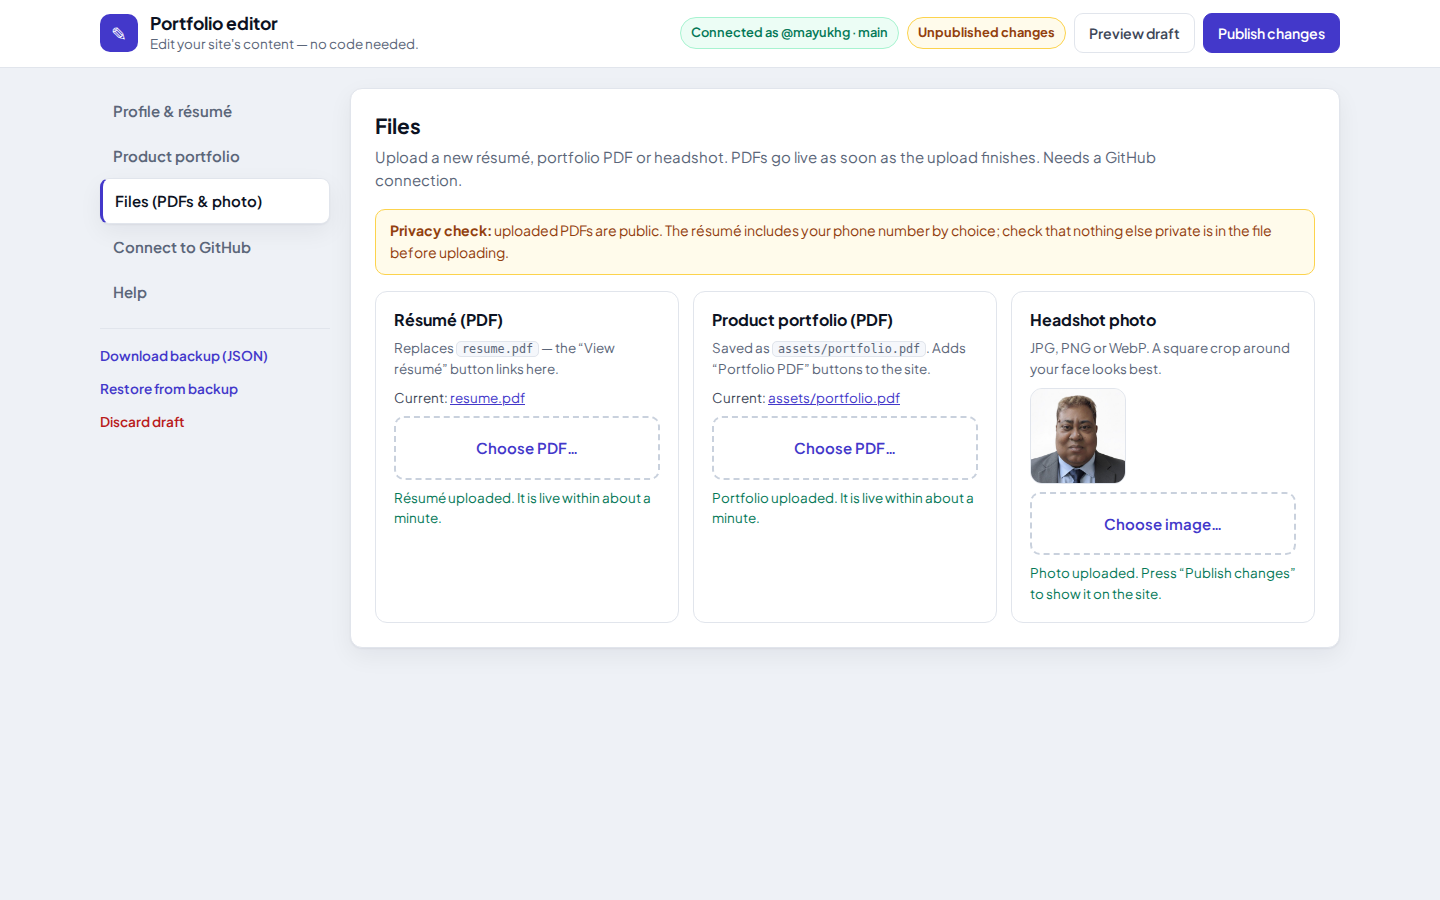
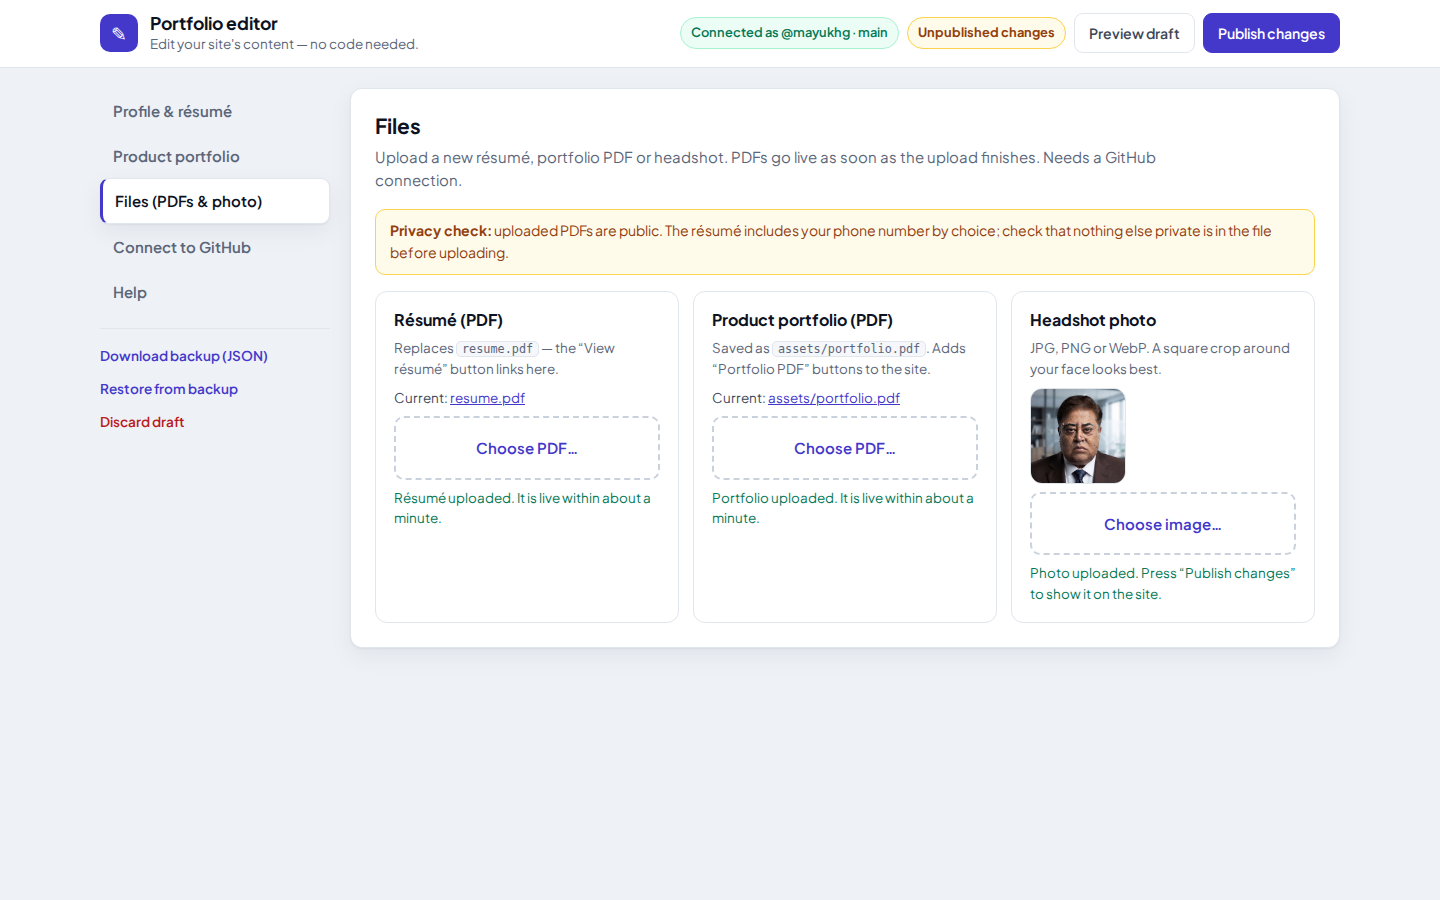
New headshot on the site and the social share card
- assets/mayukh.jpg: new photo, square-cropped to keep the full head
  and tie knot, 640×640 (same path, so the hero, JSON-LD and touch icon
  all pick it up).
- assets/og-card.jpg: the same photo placed in the card's rounded
  frame, so link previews match the site.

Claude-Session: https://claude.ai/code/session_01CK7TiHoTae7Huhu9QXRh1t

Changed region(s): [[0.7188, 0.4044, 0.7812, 0.56]]

diff --git a/qa/VALIDATION_REPORT.md b/qa/VALIDATION_REPORT.md
@@ -1,6 +1,6 @@
 # Validation Report — Portfolio Site & Editor
 
-**Run:** 2026-09-28 10:52 UTC · **Mode:** full · **Browser:** Chromium (Playwright 1.56.1) · **Accessibility engine:** axe-core 4.11.0
+**Run:** 2026-09-28 11:05 UTC · **Mode:** full · **Browser:** Chromium (Playwright 1.56.1) · **Accessibility engine:** axe-core 4.11.0
 
 ## Summary
 
@@ -44,7 +44,7 @@ The suite discovers features from the code on every run (`qa/lib/discover.mjs`) 
 | A1 | All required files exist | ✅ Pass | 0.0s | 16 files checked |
 | A2 | Content JSON is valid and internally consistent | ✅ Pass | 0.0s | 7 products, 3 arenas, 7 roles |
 | A3 | Phone number is not published in any site text file | ✅ Pass | 0.0s | 12 text files scanned; résumé PDF intentionally includes the phone number |
-| A4 | Every local URL referenced by pages and content resolves (HTTP 200) | ✅ Pass | 0.0s | 10 local references checked |
+| A4 | Every local URL referenced by pages and content resolves (HTTP 200) | ✅ Pass | 0.1s | 10 local references checked |
 | A5 | SEO & social metadata (title, description, canonical, Open Graph, JSON-LD) | ✅ Pass | 0.0s |  |
 | A6 | Crawl rules: robots.txt blocks /admin, admin + 404 are noindex, sitemap valid | ✅ Pass | 0.0s |  |
 
@@ -52,58 +52,58 @@ The suite discovers features from the code on every run (`qa/lib/discover.mjs`) 
 
 | ID | Test case | Result | Time | Details / evidence |
 |---|---|---|---|---|
-| B1 | Home page loads with zero console errors, page errors or failed requests | ✅ Pass | 2.2s | DOMContentLoaded 30 ms (local server); web fonts loaded<br>[01-desktop-1440-full-page.jpg](screenshots/01-desktop-1440-full-page.jpg) |
+| B1 | Home page loads with zero console errors, page errors or failed requests | ✅ Pass | 4.0s | DOMContentLoaded 107 ms (local server); web fonts loaded<br>[01-desktop-1440-full-page.jpg](screenshots/01-desktop-1440-full-page.jpg) |
 | B2 | Hero renders name, title, badge, intro (with bold), CTAs, photo and 4 stats | ✅ Pass | 1.0s | [02-hero-desktop.png](screenshots/02-hero-desktop.png) |
 | B3 | Every section renders the expected number of items from content JSON | ✅ Pass | 0.7s | facts=8, steps=6, principles=3, products=7, glance=7, pillars=3, metrics=4, roles=7, legend=3, snapshot=3, snapItems=11, skills=6, edu=3, contact=5 |
 | B4 | Content fidelity: every product, role, skill and education entry appears on the page | ✅ Pass | 0.7s |  |
-| B5 | Section headings and sub-headings render exactly as written in the content files | ✅ Pass | 0.8s | [03-products-heading.png](screenshots/03-products-heading.png) |
+| B5 | Section headings and sub-headings render exactly as written in the content files | ✅ Pass | 0.9s | [03-products-heading.png](screenshots/03-products-heading.png) |
 
 ### C. Interactions
 
 | ID | Test case | Result | Time | Details / evidence |
 |---|---|---|---|---|
 | C1 | Product card accordion expands and collapses (aria-expanded + height) | ✅ Pass | 2.0s | [04-product-card-expanded.png](screenshots/04-product-card-expanded.png) |
-| C9 | Product card affordance: “Explore case study” button, content preview, whole-card click, animations, one-time hint | ✅ Pass | 9.5s | [05-product-card-closed-hover.png](screenshots/05-product-card-closed-hover.png)<br>[06-product-card-open.png](screenshots/06-product-card-open.png) |
-| C2 | Arena filter chips show the right products and counts | ✅ Pass | 1.3s | [07-filter-agentic.png](screenshots/07-filter-agentic.png) |
-| C3 | Experience timeline: every role visible at once; each role expands/collapses its achievements | ✅ Pass | 2.5s | 7 roles on the timeline<br>[08-experience-timeline.png](screenshots/08-experience-timeline.png) |
-| C4 | Colour coding: career tracks, product arenas, snapshot groups and documents each use their own labelled colour | ✅ Pass | 1.2s | [09-colour-coded-summary-cards.png](screenshots/09-colour-coded-summary-cards.png) |
+| C9 | Product card affordance: “Explore case study” button, content preview, whole-card click, animations, one-time hint | ✅ Pass | 13.5s | [05-product-card-closed-hover.png](screenshots/05-product-card-closed-hover.png)<br>[06-product-card-open.png](screenshots/06-product-card-open.png) |
+| C2 | Arena filter chips show the right products and counts | ✅ Pass | 1.4s | [07-filter-agentic.png](screenshots/07-filter-agentic.png) |
+| C3 | Experience timeline: every role visible at once; each role expands/collapses its achievements | ✅ Pass | 2.6s | 7 roles on the timeline<br>[08-experience-timeline.png](screenshots/08-experience-timeline.png) |
+| C4 | Colour coding: career tracks, product arenas, snapshot groups and documents each use their own labelled colour | ✅ Pass | 1.1s | [09-colour-coded-summary-cards.png](screenshots/09-colour-coded-summary-cards.png) |
 | C5 | Deep links open products (URL hash, filtered state, experience “related product” links) | ✅ Pass | 2.6s |  |
-| C8 | Summary (“at a glance”) cards: one per product, in order, each opens its product case | ✅ Pass | 9.3s | [10-summary-cards-desktop.png](screenshots/10-summary-cards-desktop.png) |
-| C6 | Nav links scroll to sections; active link and scrolled state update | ✅ Pass | 6.4s |  |
-| C10 | Recruiter essentials: résumé always one click away (sticky nav, all widths); 60-second snapshot; skills “+N more” | ✅ Pass | 4.1s | [11-mobile-nav-resume.png](screenshots/11-mobile-nav-resume.png)<br>[12-snapshot-panel.png](screenshots/12-snapshot-panel.png) |
-| C11 | Print / Save as PDF: navigation and buttons hidden, every case study, role and skill included | ✅ Pass | 1.1s | Print-to-PDF: 1033 KB |
-| C7 | Links: external open safely in new tab, mailto correct, résumé PDF served | ✅ Pass | 0.8s | 11 external links, 7 product GitHub links |
+| C8 | Summary (“at a glance”) cards: one per product, in order, each opens its product case | ✅ Pass | 7.2s | [10-summary-cards-desktop.png](screenshots/10-summary-cards-desktop.png) |
+| C6 | Nav links scroll to sections; active link and scrolled state update | ✅ Pass | 6.5s |  |
+| C10 | Recruiter essentials: résumé always one click away (sticky nav, all widths); 60-second snapshot; skills “+N more” | ✅ Pass | 4.0s | [11-mobile-nav-resume.png](screenshots/11-mobile-nav-resume.png)<br>[12-snapshot-panel.png](screenshots/12-snapshot-panel.png) |
+| C11 | Print / Save as PDF: navigation and buttons hidden, every case study, role and skill included | ✅ Pass | 1.0s | Print-to-PDF: 1033 KB |
+| C7 | Links: external open safely in new tab, mailto correct, résumé PDF served | ✅ Pass | 0.7s | 11 external links, 7 product GitHub links |
 
 ### D. Responsive
 
 | ID | Test case | Result | Time | Details / evidence |
 |---|---|---|---|---|
-| D-1440 | No horizontal overflow and correct layout at 1440px (desktop) | ✅ Pass | 2.6s | [13-desktop-1440-full-page.jpg](screenshots/13-desktop-1440-full-page.jpg) |
-| D-1024 | No horizontal overflow and correct layout at 1024px (laptop) | ✅ Pass | 2.1s | [14-laptop-1024-full-page.jpg](screenshots/14-laptop-1024-full-page.jpg) |
+| D-1440 | No horizontal overflow and correct layout at 1440px (desktop) | ✅ Pass | 3.6s | [13-desktop-1440-full-page.jpg](screenshots/13-desktop-1440-full-page.jpg) |
+| D-1024 | No horizontal overflow and correct layout at 1024px (laptop) | ✅ Pass | 2.4s | [14-laptop-1024-full-page.jpg](screenshots/14-laptop-1024-full-page.jpg) |
 | D-768 | No horizontal overflow and correct layout at 768px (tablet) | ✅ Pass | 1.9s | [15-tablet-768-full-page.jpg](screenshots/15-tablet-768-full-page.jpg) |
-| D-390 | No horizontal overflow and correct layout at 390px (mobile) | ✅ Pass | 1.9s | [16-mobile-390-full-page.jpg](screenshots/16-mobile-390-full-page.jpg) |
-| D-320 | No horizontal overflow and correct layout at 320px (small-mobile) | ✅ Pass | 1.8s | [17-small-mobile-320-full-page.jpg](screenshots/17-small-mobile-320-full-page.jpg) |
+| D-390 | No horizontal overflow and correct layout at 390px (mobile) | ✅ Pass | 2.0s | [16-mobile-390-full-page.jpg](screenshots/16-mobile-390-full-page.jpg) |
+| D-320 | No horizontal overflow and correct layout at 320px (small-mobile) | ✅ Pass | 1.6s | [17-small-mobile-320-full-page.jpg](screenshots/17-small-mobile-320-full-page.jpg) |
 | D-menu | Mobile menu opens/closes (button, link tap, Escape) with correct ARIA | ✅ Pass | 0.9s | [18-mobile-menu-open.png](screenshots/18-mobile-menu-open.png) |
-| D-touch | Touch targets are at least 44×44px on mobile | ✅ Pass | 0.7s |  |
+| D-touch | Touch targets are at least 44×44px on mobile | ✅ Pass | 0.8s |  |
 
 ### E. Accessibility
 
 | ID | Test case | Result | Time | Details / evidence |
 |---|---|---|---|---|
 | E1 | axe-core WCAG 2.1 AA audit — home page (desktop, with an expanded card) | ✅ Pass | 2.6s | Desktop: 42 axe rules passed, 0 violations |
-| E2 | axe-core WCAG 2.1 AA audit — home page (mobile, menu open) | ✅ Pass | 1.7s | Mobile: 42 axe rules passed, 0 violations |
+| E2 | axe-core WCAG 2.1 AA audit — home page (mobile, menu open) | ✅ Pass | 1.8s | Mobile: 42 axe rules passed, 0 violations |
 | E3 | Semantics: one H1, no skipped heading levels, landmarks, named controls, image alts | ✅ Pass | 0.7s |  |
 | E4 | Keyboard: skip link is first tab stop and moves focus to main content; focus is visible | ✅ Pass | 0.8s | [19-keyboard-skip-link.png](screenshots/19-keyboard-skip-link.png) |
 | E5 | Reduced motion: content is visible immediately without animations | ✅ Pass | 0.7s |  |
-| E6 | No-JavaScript fallback shows a message with résumé + email links | ✅ Pass | 0.7s |  |
+| E6 | No-JavaScript fallback shows a message with résumé + email links | ✅ Pass | 0.6s |  |
 
 ### F. Resilience & security
 
 | ID | Test case | Result | Time | Details / evidence |
 |---|---|---|---|---|
 | F1 | If content JSON fails to load, a friendly error is shown (no crash, no blank page) | ✅ Pass | 0.7s | [20-content-load-error.png](screenshots/20-content-load-error.png) |
-| F2 | Preview mode renders the local draft only when ?preview=1 is present | ✅ Pass | 1.9s |  |
-| F3 | XSS-safe rendering: HTML/script and javascript: links in content are neutralised | ✅ Pass | 1.3s |  |
+| F2 | Preview mode renders the local draft only when ?preview=1 is present | ✅ Pass | 2.0s |  |
+| F3 | XSS-safe rendering: HTML/script and javascript: links in content are neutralised | ✅ Pass | 1.4s |  |
 | F4 | 404 page renders on unknown URLs with a way back | ✅ Pass | 0.7s | [21-404-page.png](screenshots/21-404-page.png) |
 | F5 | Admin page ships a strict Content-Security-Policy and never leaks the token in URLs | ✅ Pass | 0.0s |  |
 
@@ -111,18 +111,18 @@ The suite discovers features from the code on every run (`qa/lib/discover.mjs`) 
 
 | ID | Test case | Result | Time | Details / evidence |
 |---|---|---|---|---|
-| G1 | Editor loads with no errors, populates every form from content, all tabs work | ✅ Pass | 1.1s | [22-admin-profile-tab.png](screenshots/22-admin-profile-tab.png) |
+| G1 | Editor loads with no errors, populates every form from content, all tabs work | ✅ Pass | 1.0s | [22-admin-profile-tab.png](screenshots/22-admin-profile-tab.png) |
 | G2 | Editing a field marks the draft dirty, autosaves, and “Preview draft” shows it on the real site | ✅ Pass | 2.3s | [23-admin-preview-draft.png](screenshots/23-admin-preview-draft.png) |
-| G3 | Add a new product through the form; it appears on the site with correct arena filter counts | ✅ Pass | 2.5s | [24-admin-new-product-form.png](screenshots/24-admin-new-product-form.png)<br>[25-preview-new-summary-card.png](screenshots/25-preview-new-summary-card.png)<br>[26-preview-new-product.png](screenshots/26-preview-new-product.png) |
+| G3 | Add a new product through the form; it appears on the site with correct arena filter counts | ✅ Pass | 2.4s | [24-admin-new-product-form.png](screenshots/24-admin-new-product-form.png)<br>[25-preview-new-summary-card.png](screenshots/25-preview-new-summary-card.png)<br>[26-preview-new-product.png](screenshots/26-preview-new-product.png) |
 | G4 | Reorder, duplicate and delete list items (with confirmation) | ✅ Pass | 1.4s |  |
 | G5 | Validation blocks publishing and points to each problem (required, email, URL, duplicate ID, unknown link) | ✅ Pass | 1.1s | [27-admin-validation-errors.png](screenshots/27-admin-validation-errors.png) |
-| G6 | Connect flow: bad token shows a friendly error; valid token connects | ✅ Pass | 1.2s | [28-admin-connected.png](screenshots/28-admin-connected.png) |
+| G6 | Connect flow: bad token shows a friendly error; valid token connects | ✅ Pass | 1.1s | [28-admin-connected.png](screenshots/28-admin-connected.png) |
 | G7 | Publish commits correct JSON to the right repo/branch with SHAs, clears dirty state | ✅ Pass | 1.1s | [29-admin-published.png](screenshots/29-admin-published.png) |
 | G8 | Publish detects a remote change and asks before overwriting (cancel = no commit) | ✅ Pass | 1.5s |  |
 | G9 | File uploads: résumé PDF committed; wrong type and fake PDF rejected; portfolio + photo wire into content | ✅ Pass | 1.2s | [30-admin-files-uploaded.png](screenshots/30-admin-files-uploaded.png) |
 | G10 | Backup download + restore, and “Discard draft” reverts to live content | ✅ Pass | 1.2s |  |
 | G11 | “Remember on this device” stores token in localStorage; Disconnect removes it everywhere | ✅ Pass | 1.8s | Reopening the editor reconnects automatically |
-| G12 | Editor is usable on mobile (390px): no horizontal overflow, axe audit clean | ✅ Pass | 1.8s | Admin axe: 0 violations<br>[31-admin-mobile-390.png](screenshots/31-admin-mobile-390.png) |
+| G12 | Editor is usable on mobile (390px): no horizontal overflow, axe audit clean | ✅ Pass | 1.6s | Admin axe: 0 violations<br>[31-admin-mobile-390.png](screenshots/31-admin-mobile-390.png) |
 | G13 | Products tab and Files tab render correctly (visual check) | ✅ Pass | 1.1s | [32-admin-products-tab.png](screenshots/32-admin-products-tab.png)<br>[33-admin-files-tab.png](screenshots/33-admin-files-tab.png)<br>[34-admin-connect-tab.png](screenshots/34-admin-connect-tab.png) |
 
 ### R. Auto-discovered regression
@@ -141,15 +141,15 @@ The suite discovers features from the code on every run (`qa/lib/discover.mjs`) 
 | R-section-education | Section #education renders with content | ✅ Pass | 0.0s |  |
 | R-section-contact | Section #contact renders with content | ✅ Pass | 0.0s |  |
 | R-slots | All 37 content slots are populated (or intentionally hidden) | ✅ Pass | 0.0s |  |
-| R-product-policy-foundry | Product “AI Policy Foundry”: summary card opens its full case with the right content and links | ✅ Pass | 2.3s |  |
+| R-product-policy-foundry | Product “AI Policy Foundry”: summary card opens its full case with the right content and links | ✅ Pass | 2.2s |  |
 | R-product-soc-portal | Product “AI SOC Portal”: summary card opens its full case with the right content and links | ✅ Pass | 2.8s |  |
-| R-product-ai-spm | Product “AI Security Posture Management (AI-SPM)”: summary card opens its full case with the right content and links | ✅ Pass | 2.8s |  |
+| R-product-ai-spm | Product “AI Security Posture Management (AI-SPM)”: summary card opens its full case with the right content and links | ✅ Pass | 2.7s |  |
 | R-product-mcp | Product “Exploit Validation & Remediation MCP Server”: summary card opens its full case with the right content and links | ✅ Pass | 2.8s |  |
 | R-product-copilot | Product “Unified Risk Copilot”: summary card opens its full case with the right content and links | ✅ Pass | 2.8s |  |
-| R-product-hscode | Product “HS Code Prediction API”: summary card opens its full case with the right content and links | ✅ Pass | 2.8s |  |
+| R-product-hscode | Product “HS Code Prediction API”: summary card opens its full case with the right content and links | ✅ Pass | 2.7s |  |
 | R-product-kyc | Product “KYC-as-a-Service”: summary card opens its full case with the right content and links | ✅ Pass | 2.8s |  |
 | R-arena-defence | Arena “AI Defense Ecosystem” filter shows exactly its 3 product(s) | ✅ Pass | 0.8s |  |
-| R-arena-agentic | Arena “Agentic Platform” filter shows exactly its 2 product(s) | ✅ Pass | 0.8s |  |
+| R-arena-agentic | Arena “Agentic Platform” filter shows exactly its 2 product(s) | ✅ Pass | 0.7s |  |
 | R-arena-applied | Arena “Applied AI” filter shows exactly its 2 product(s) | ✅ Pass | 0.8s |  |
 | R-role-1 | Experience “Qualys”: timeline shows title, dates, track, metrics and all 7 achievements | ✅ Pass | 0.6s |  |
 | R-role-2 | Experience “Fractional CPO”: timeline shows title, dates, track, metrics and all 5 achievements | ✅ Pass | 3.0s |  |
@@ -164,9 +164,9 @@ The suite discovers features from the code on every run (`qa/lib/discover.mjs`) 
 | R-admin-tab-connect | Editor tab “connect” opens its panel | ✅ Pass | 0.1s |  |
 | R-admin-tab-help | Editor tab “help” opens its panel | ✅ Pass | 0.0s |  |
 | R-admin-upload-resume | Editor upload “resume” has a file picker restricted to the right file types | ✅ Pass | 0.0s |  |
-| R-admin-upload-portfolio | Editor upload “portfolio” has a file picker restricted to the right file types | ✅ Pass | 0.1s |  |
-| R-admin-upload-photo | Editor upload “photo” has a file picker restricted to the right file types | ✅ Pass | 0.0s |  |
-| R-admin-fields | Every editor form field (92 kinds, discovered from the schema) round-trips into the draft, and the edited draft renders | ✅ Pass | 5.5s | 105 distinct fields edited through the UI — string: 53, lines: 5, md: 19, path: 3, email: 1, url: 4, select: 6, paras: 1, text: 5, color: 2, mdlines: 4, bool: 2 |
+| R-admin-upload-portfolio | Editor upload “portfolio” has a file picker restricted to the right file types | ✅ Pass | 0.0s |  |
+| R-admin-upload-photo | Editor upload “photo” has a file picker restricted to the right file types | ✅ Pass | 0.1s |  |
+| R-admin-fields | Every editor form field (92 kinds, discovered from the schema) round-trips into the draft, and the edited draft renders | ✅ Pass | 5.0s | 105 distinct fields edited through the UI — string: 53, lines: 5, md: 19, path: 3, email: 1, url: 4, select: 6, paras: 1, text: 5, color: 2, mdlines: 4, bool: 2 |
 | R-manifest | Regression suite is in sync with the code (coverage manifest updated) | ✅ Pass | 0.0s | 189 features tracked · 0 added, 0 removed since the last baseline |
 
 ## Screenshots
